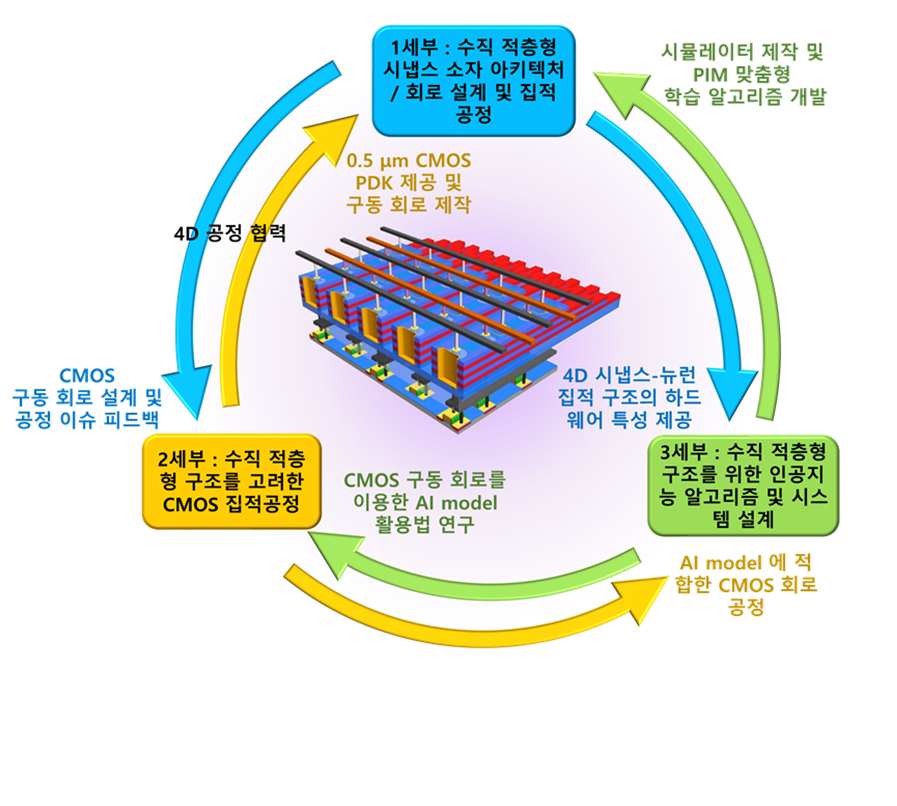
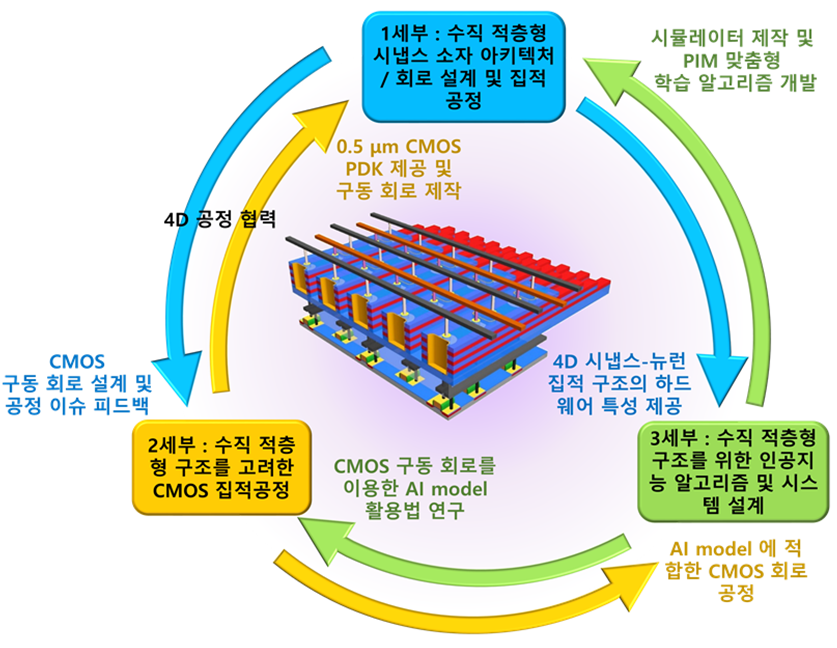
no message

diff --git a/fpost/3.md b/fpost/3.md
@@ -28,7 +28,7 @@ tags:
 
 <figure>
   <div style="text-align:center">
-    <img src="/fpost/images/pf3/summary.png" alt="대체 텍스트" style="width:70%;">
+    <img src="/fpost/images/pf3/summary.png" alt="대체 텍스트" style="width:50%;">
   </div>
   <figcaption style="text-align:center">Fig 1. System diagram of task performance.</figcaption>
 </figure>
